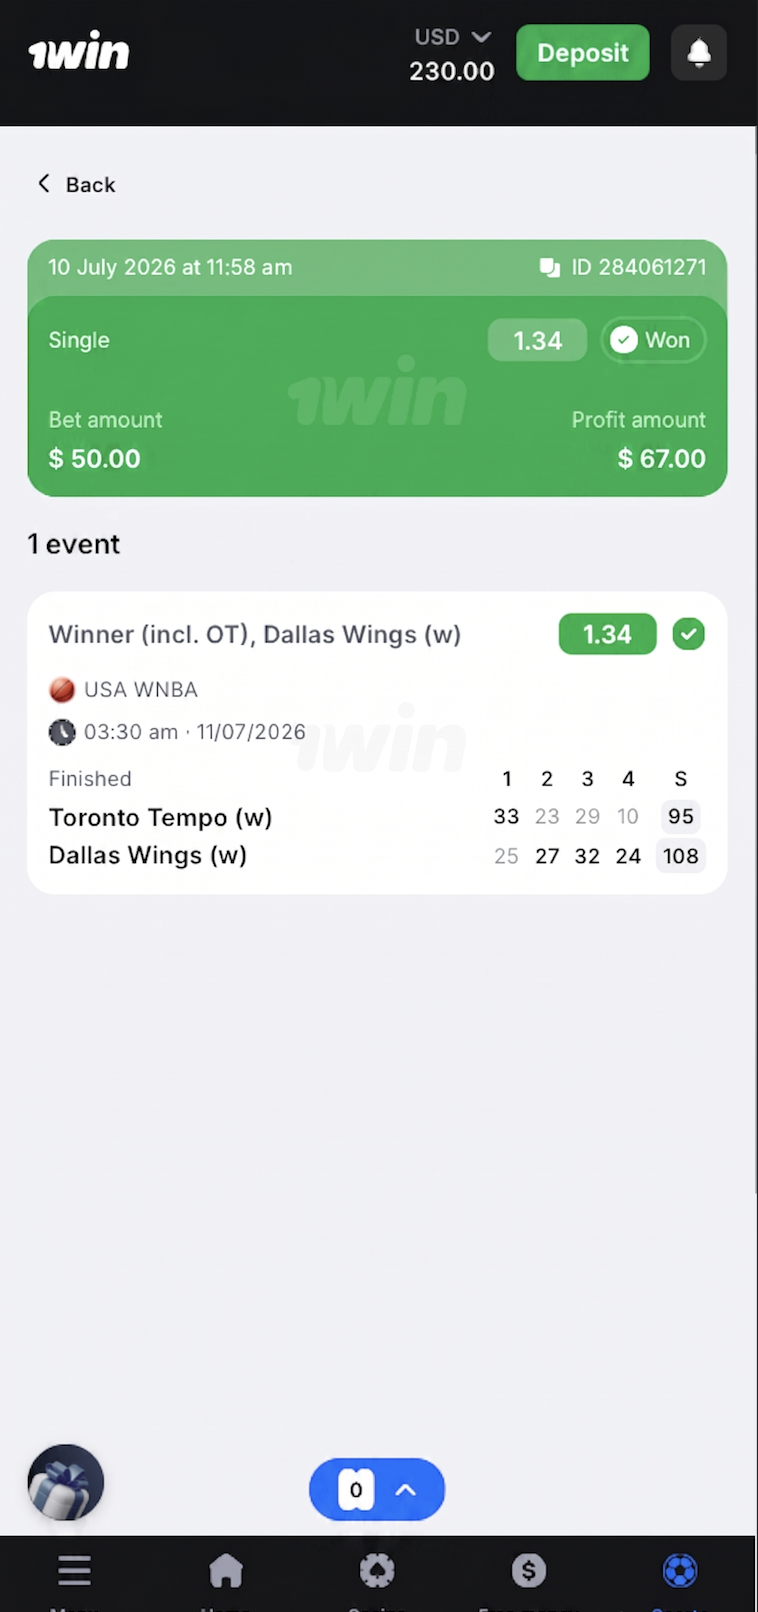
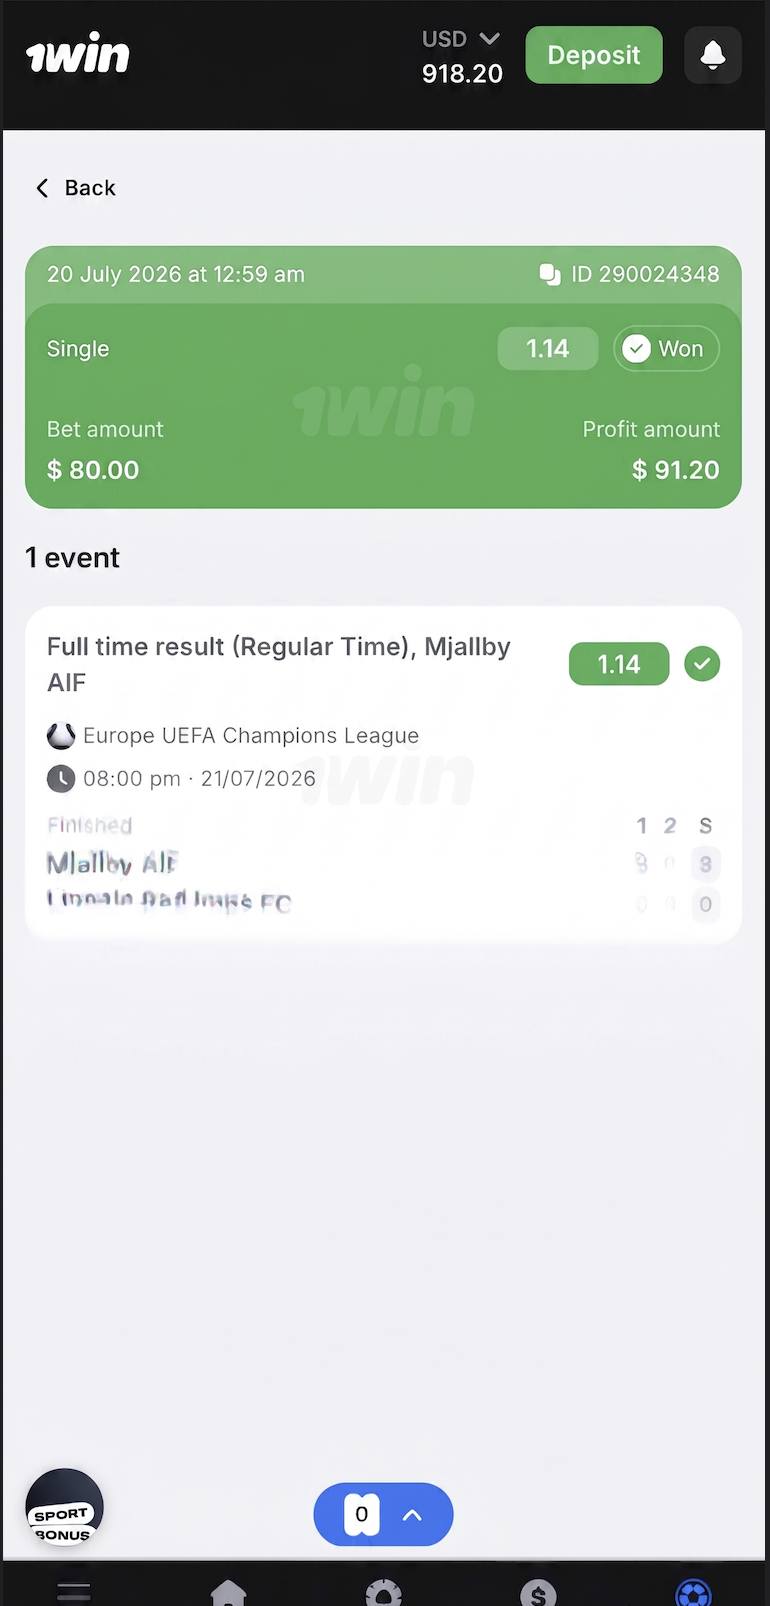
upagrade

diff --git a/fortunobet/FortunoBetBot.py b/fortunobet/FortunoBetBot.py
@@ -64,32 +64,29 @@ posts =[
 # {"date": "2026-06-21", "time": "18:00", "content": "😂 Weekend done — who won?\n\nDrop your biggest win below 👇\nNext week we go again. Chale who ready? 🔥", "images": []},
 # {"date": "2026-06-21", "time": "23:55", "content": "🎰 <b>500% Bonus — active tonight only! ❌</b>\n\n1WIN Casino. Fortune Tiger. Gates of Olympus. 💰\nGH₵50 → play with GH₵300 + 500 free spins. Chale.\n\nPromo code works now — not guaranteed tomorrow. ⚠\nThree payouts this week. GH₵450 + GH₵750 + GH₵1,200. No dulling. 💸\n\nPlace your bet before bonus expires. JOIN NOW. 🔥\n\nDeposit GH₵50 → play with GH₵300\n🔑 Code: <code>fortunobet</code>\n👉 <b>PLACE YOUR BET:</b> https://r1wexmo.life/betting?open=register&p=t02b", "images": ["bonus4.jpeg"]},
 
-    {"date":"2026-07-20","time":"14:50","content":"⚽ <b>UEFA Champions League Qualifier Pick! 🏆</b>\n\nMjallby AIF is in unstoppable home form tonight. Odds 1.14 is our absolute premium banker to secure easy growth. 💰\n\nA simple bet of UGX 10,000 / GH¢ 40 / ₦2,500 yields clean profit with zero risk. H2H data is completely clear. 🎯\n\nDon't let free money pass you by. Lock in your pick before kickoff!\n\n🔑 Promo Code: <code>fortunobet</code>\n👉 <b>GET HIGHEST ODDS:</b> https://r1wexmo.life/betting?open=register&p=t02b","images":["proggress.png"]},
-    {"date":"2026-07-20","time":"23:55","content":"✈ <b>Aviator Hit 85.42x Multiplier Tonight! Cash Out Success! 🎰</b>\n\nUnbelievable flight! A tiny UGX 2,000 / GH¢ 5 / ₦200 deposit turned into UGX 170,840 / GH¢ 427 / ₦17,080 in just 15 seconds. 💸\n\nUGX 150,000 withdrawn instantly to MTN Mobile Money flat! ID: 7732224. 💛\n\nStop watching the red plane climb from the sidelines. Click CASHOUT before it flies away, and withdraw straight to your MoMo or OPay wallet instantly!\n\n🔑 Promo Code: <code>fortunobet</code>\n👉 <b>FLY AND CASHOUT INSTANTLY:</b> https://r1wexmo.life/betting?open=register&p=t02b","images":["withdrow1.png"]},
 
-    {"date":"2026-07-21","time":"12:00","content":"🏀⚽ <b>WNBA & Brazil Serie A Double Ticket — Success! ✅</b>\n\nAtlanta Dream won easily at home, and EC Bahia dominated as predicted! Odds 1.82. 🏆\nUGX 10,000 → UGX 18,200 / GH¢ 50 → GH¢ 91 / ₦3,000 → ₦5,460 clean profit! 💸\n\nNo guessing, no room for emotions. Only pure data and high-value odds. 🎯\n\n🔑 Promo Code: <code>fortunobet</code>\n👉 <b>LOCK IN EVENING ODDS:</b> https://r1wexmo.life/betting?open=register&p=t02b","images":["win1.png"]},
-    {"date":"2026-07-21","time":"18:00","content":"🎰 <b>MASSIVE 500% BONUS + 10% MONTHLY LOSS CASHBACK! 🏆</b>\n\nMaximize your funds on FortunoBet! Get a huge 500% welcome package on your first deposits to play over 5,000 slots and sports. 💰\n\n🛡 <b>FortunoBet Zero-Risk Player Cashback:</b>\nWe protect our players! We give a 10% monthly cashback refund on ALL your net losses. 💸\n\n<b>How it works:</b>\n1⃣ Take a screenshot of your monthly losses on the platform.\n2⃣ Send the screenshot to our Telegram channel.\n3⃣ We will manually fill/credit your balance with real cash and post the credited screenshot proof here! 🤝\n\n🔑 Promo Code: <code>fortunobet</code>\n👉 <b>CLAIM BONUS & CASHBACK:</b> https://r1wexmo.life/betting?open=register&p=t02b","images":["fortunobet.jpeg"]},
-    {"date":"2026-07-21","time":"22:00","content":"💸 <b>₦25,000 Paid Out in Nigeria — Instant OPay/PalmPay! ✅</b>\n\nLagos is winning big tonight! C. Obi withdrew ₦25,000 straight to OPay. 🇳🇬\nTransaction completed in under 1 minute. Zero hidden fees. ID: 7732225. 💚\n\nWhile others are sleeping, smart players are cashing out. The statistics don't lie. 🙏\n\nStart with just ₦200 and feel the lightning payout speed yourself!\n\n🔑 Promo Code: <code>fortunobet</code>\n👉 <b>SOAR AND CASH OUT NOW:</b> https://r1wexmo.life/betting?open=register&p=t02b","images":["withdrow2.png"]},
+  {"date":"2026-07-28","time":"12:00","content":"⚡ <b>500% BONUS + 10% MONTHLY CASHBACK! 💰</b>\n\nDouble your betting power! Get an instant <b>500% welcome bonus</b> on your 1st deposit + <b>10% monthly loss protection</b>! 🛡\n\nMin deposit: UGX 2,000 / GH¢ 5 / ₦200 via MTN MoMo, Telecel & OPay.\n\n🔑 Code: <code>fortunobet</code>\n👉 <b>CLAIM YOUR BONUS NOW:</b> https://r1wexmo.life/betting?open=register&p=t02b","images":["fortunobet2.jpeg"]},
+  {"date":"2026-07-28","time":"16:30","content":"⚽ <b>CHAMPIONS LEAGUE PICK: Mjällby AIF Win (1.49 Odds) 🎯</b>\n\nLincoln Red Imps vs Mjällby AIF! Mjällby scored in 8 of last 10 away games. Lock in high-probability odds! 📊\n\n🔑 Code: <code>fortunobet</code>\n👉 <b>BET NOW:</b> https://one-vv0954.life/betting/match/sport/lincoln-red-imps-fc-vs-mjallby-aif-37797997","images":[]},
+  {"date":"2026-07-28","time":"23:55","content":"💸 <b>GH¢715.00 INSTANT CASHOUT PROOF! ✅</b>\n\nBryan just received GH¢715.00 (~$65 USD) directly to MTN Mobile Money in under 60 seconds! ID: 7732301. 💚\n\nNo verification delays. Deposit UGX 2,000 / GH¢ 5 / ₦200, win, and withdraw instantly! ⚡\n\n🔑 Code: <code>fortunobet</code>\n👉 <b>REGISTER & CASH OUT NOW:</b> https://r1wexmo.life/betting?open=register&p=t02b","images":["with1.png"]},
 
-    {"date":"2026-07-22","time":"12:00","content":"🎾 <b>WTA Bastad Clay Tennis Winner! Simona Waltert. ✅</b>\n\nOur analytical slips delivered spectacular profits on Sweden's clay court. Simona Waltert dominated Kaitlin Quevedo easily! 🏆\n\nOdds 1.42. ₦5,000 / UGX 10,000 / GH¢ 40 stake turned into ₦7,100 / UGX 14,200 / GH¢ 56.80 clean profit. 💸\n\nStop gambling blindly. Follow the numbers and build your bankroll systematically. 🎯\n\n🔑 Promo Code: <code>fortunobet</code>\n👉 <b>PLACE YOUR WINNING BET:</b> https://r1wexmo.life/betting?open=register&p=t02b","images":["win2.png"]},
-    {"date":"2026-07-22","time":"18:36","content":"💡 <b>How to Register & Play in 30 Seconds — Easy Guide:</b>\n\n1⃣ Click the link & register with Code: <code>fortunobet</code>\n2⃣ Deposit as little as UGX 2,000 / GH¢ 5 / ₦200 (price of 1 local chapati/street snack!) using MTN, Airtel, Telecel, OPay, or PalmPay\n3⃣ Get your 500% welcome bonus credited automatically!\n\nStop scrolling and start earning today. It's too simple! 🎯\n\n🔑 Promo Code: <code>fortunobet</code>\n👉 <b>REGISTER YOUR ACCOUNT NOW:</b> https://r1wexmo.life/betting?open=register&p=t02b","images":["fortunobet1.jpeg"]},
-    {"date":"2026-07-22","time":"22:00","content":"🎈 <b>1Win Balloon Reached 20.35x Multiplier Tonight! 🏆</b>\n\nThe easiest cash game on the internet right now. Press, hold to inflate the balloon, watch the multiplier rise, and release to cashout instantly! 💰\n\nDon't let it pop before you collect! Turn a simple UGX 2,000 / GH¢ 5 / ₦200 into UGX 40,700 / GH¢ 100 / ₦4,000 in seconds and withdraw straight to MoMo/OPay! 💸\n\nYour 500% Welcome Bonus is waiting. Claim it tonight and play with zero stress! ⚡\n\n🔑 Promo Code: <code>fortunobet</code>\n👉 <b>PLAY BALLOON AND CASH OUT:</b> https://r1wexmo.life/betting?open=register&p=t02b","images":["withdrow1.png"]},
+  {"date":"2026-07-29","time":"12:00","content":"✅ <b>$85.00 PROFIT — UEFA CHAMPIONS LEAGUE WIN! ⚽</b>\n\nSabah Baku FK won 1-0! Single 1.70 Odds hit clean. $50 stake returned $85.00 cash! 🏆\n\nTotal Account Balance: <b>$907.00</b> 💸\n\nStop guessing! Register in 30 seconds and follow backed analytics.\n\n🔑 Code: <code>fortunobet</code>\n👉 <b>LOCK IN TODAY'S WINNING ODDS:</b> https://r1wexmo.life/betting?open=register&p=t02b","images":["win3.png"]},
+  {"date":"2026-07-29","time":"16:30","content":"❓ <b>QUICK QUESTION:</b>\n\nWhat is your #1 rule in soccer betting? ⚽\n\nA) Home team bias\nB) No emotional chasing\nC) Low-risk 1.3+ odds\n\nSmartest bettors strictly use B & C on FortunoBet to grow daily! 📈\n\n🔑 Code: <code>fortunobet</code>\n👉 <b>JOIN THE WINNERS:</b> https://r1wexmo.life/betting?open=register&p=t02b","images":[]},
+  {"date":"2026-07-29","time":"23:55","content":"💚 <b>GH¢440.00 RECEIVED VIA MTN MOMO! ⚡</b>\n\nEarly morning payout processed in 45 seconds! Bryan withdrew GH¢440.00 (~$40 USD). ID: 7732302. 💸\n\nZero withdrawal fees. Start with just UGX 2,000 / GH¢ 5 / ₦200 on MTN, Airtel, OPay, or PalmPay tonight!\n\n🔑 Code: <code>fortunobet</code>\n👉 <b>SOAR AND CASH OUT NOW:</b> https://r1wexmo.life/betting?open=register&p=t02b","images":["with2.png"]},
 
-    {"date":"2026-07-23","time":"13:44","content":"🏀 <b>WNBA Main Pick: Dallas Wings vs Toronto Tempo! ✅</b>\n\nDallas Wings dominated the court in style! High-value analytical slip wins again. 🏆\n\nOdds 1.34. UGX 10,000 / GH¢ 40 / ₦2,500 returned UGX 13,400 / GH¢ 53.60 / ₦3,350 pure profit. 💸\n\nOur research makes winning simple. Don't waste money guessing. Follow the data! 🎯\n\n🔑 Promo Code: <code>fortunobet</code>\n👉 <b>GET BEST VALUE ODDS TODAY:</b> https://r1wexmo.life/betting?open=register&p=t02b","images":["win2.png"]},
-    {"date":"2026-07-23","time":"18:00","content":"💡 <b>How to Start and Win in 30 Seconds — Step-by-Step:</b>\n\n1⃣ Click the link & register with Code: <code>fortunobet</code>\n2⃣ Deposit as little as UGX 2,000 / GH¢ 5 / ₦200 (price of 1 local chapati/street snack!)\n3⃣ Play Aviator, Balloon, or back a top soccer match and withdraw instantly to MoMo/OPay/PalmPay! ⚡\n\n🎁 <b>Our 500% welcome package matches your first deposits automatically!</b>\n\nWhy watch from the sidelines? Start your winning journey today. It's too simple. 🎯\n\n🔑 Promo Code: <code>fortunobet</code>\n👉 <b>REGISTER YOUR ACCOUNT NOW:</b> https://r1wexmo.life/betting?open=register&p=t02b","images":["fortunobet.jpeg"]},
-    {"date":"2026-07-23","time":"22:00","content":"💸 <b>$75.00 USD Mobile Money Payout — Instant! ✅</b>\n\nFriday night cashout has arrived! Transaction MM-7732226 processed in 45 seconds flat. 💚\n\nYour Mobile Money or OPay/PalmPay wallet is ready to grow. Zero withdrawal fees, zero bank queues.\n\nBrian backed our Simona Waltert tennis prediction and woke up to a sweet $75 balance. It's too easy. 🎯\n\nStart your weekend with just UGX 2,000 / GH¢ 5 / ₦200 today! ⚡\n\n🔑 Promo Code: <code>fortunobet</code>\n👉 <b>COLLECT FRIDAY CASHOUTS:</b> https://r1wexmo.life/betting?open=register&p=t02b","images":["withdrow3.png"]},
+  {"date":"2026-07-30","time":"12:00","content":"🛡 <b>10% MONTHLY LOSS PROTECTION IS ACTIVE! 💰</b>\n\nNever lose alone. Take a screenshot of your monthly losses, send it to our channel, and we reload your balance with real cash! 💸\n\nPlus get a <b>500% bonus</b> on your 1st deposit! Min deposit: UGX 2,000 / GH¢ 5 / ₦200. ⚡\n\n🔑 Code: <code>fortunobet</code>\n👉 <b>CLAIM CASHBACK & BONUS:</b> https://r1wexmo.life/betting?open=register&p=t02b","images":["fortunobet1.jpeg"]},
+  {"date":"2026-07-30","time":"16:30","content":"","images":[]},
+  {"date":"2026-07-30","time":"23:55","content":"✈ <b>AVIATOR HIT 85x MULTIPLIER TONIGHT! 🚀</b>\n\nTurn a tiny UGX 2,000 / GH¢ 5 / ₦200 deposit into UGX 170,000 / GH¢ 425 / ₦17,000 in seconds! 💸\n\nCash out before the plane flies away and withdraw straight to MoMo or OPay! ⚡\n\n🔑 Code: <code>fortunobet</code>\n👉 <b>FLY AND CASH OUT NOW:</b> https://r1wexmo.life/betting?open=register&p=t02b","images":["fortunobet.jpeg"]},
 
-    # {"date":"2026-07-24","time":"11:00","content":"🛡 <b>Weekly Check-in: 10% Monthly Loss Cashback Active! 💰</b>\n\nAt FortunoBet, you never lose alone. We back you up with a 10% CASH refund on all monthly net losses! 🏆\n\n<b>Our Transparent Process:</b>\n📸 Take a screenshot of your monthly loss page.\n📨 Send it straight to our Telegram channel.\n💳 Our administration will manually fill your balance with real money and post the screenshot proof of the reload here! ⚡\n\nPlay your favorite slots, Aviator, or sports with complete peace of mind. Risk is cut down by 10% flat! 🔥\n\n🔑 Promo Code: <code>fortunobet</code>\n👉 <b>REGISTER & SECURE CASHBACK:</b> https://r1wexmo.life/betting?open=register&p=t02b","images":["fortunobet2.jpeg"]},
-    # {"date":"2026-07-24","time":"16:30","content":"🔥 <b>[SATURDAY EXPERT SLIP] Perfect Predictor Active! 🎯</b>\n\nWeekend sports are in full swing! Our analytics team has locked in a premium basketball prediction for today. 📊\n\n<b>• Fixture:</b> WNBA Dallas Wings Match\n<b>• Analysis:</b> Elite home record vs struggle-prone away defense\n<b>• Prediction:</b> Dallas Wings Winner (incl. OT)\n<b>• Best Odds:</b> 1.34 on the platform\n\nJoin the winners and build your bankroll. Don't guess, follow the metrics. 🎯\n\n🔑 Promo Code: <code>fortunobet</code>\n👉 <b>PLACE YOUR SATURDAY BET:</b> https://r1wexmo.life/betting?open=register&p=t02b","images":["win2.png"]},
-    {"date":"2026-07-24","time":"23:55","content":"🐹🚀 <b>Save the Hamster Cashout! Multipliers Flying High Tonight! 🏆</b>\n\nOur favorite flying hamster is soaring to crazy multiplier heights tonight! Tap to save him before the crash and claim your multiplier. 💰\n\nUGX 198,000 (~$53 USD) paid instantly straight to Mobile Money / OPay tonight! Transaction ID: MM-7732213. 💚\n\nNo stressful bank delays, no tedious verification. Turn a minor UGX 2,000 / GH¢ 5 / ₦200 deposit into big weekend cash!\n\n🔑 Promo Code: <code>fortunobet</code>\n👉 <b>PLAY SAVE THE HAMSTER NOW:</b> https://r1wexmo.life/betting?open=register&p=t02b","images":["withdrow3.png"]},
+  {"date":"2026-07-31","time":"12:00","content":"✅ <b>$91.20 WINNER — MJALLBY AIF (1.14 ODDS)! ⚽</b>\n\nChampions League qualifier locked in! $80 stake returned $91.20 profit. Total Balance: <b>$918.20</b>! 🏆\n\nStop scrolling on the sidelines. Build your weekend bankroll systematically! 💸\n\n🔑 Code: <code>fortunobet</code>\n👉 <b>LOCK IN FRIDAY ODDS:</b> https://r1wexmo.life/betting?open=register&p=t02b","images":["win2.png"]},
+  {"date":"2026-07-31","time":"16:30","content":"💡 <b>SMART BETTING TIP:</b>\n\nNever risk rent money! Start small with UGX 2,000 / GH¢ 5 / ₦200 on FortunoBet. Instant 500% bonus doubles your power! ⚡\n\n🔑 Code: <code>fortunobet</code>\n👉 <b>DEPOSIT & START WINNING:</b> https://r1wexmo.life/betting?open=register&p=t02b","images":[]},
+  {"date":"2026-07-31","time":"23:55","content":"💸 <b>GH¢770.00 FRIDAY NIGHT CASHOUT PROOF! ✅</b>\n\nFriday night cash received! Bryan just got GH¢770.00 (~$70 USD) straight to MTN Mobile Money. ID: 7732303. Balance: GH¢1,004.50! 💚\n\nStart your weekend with instant payouts on MoMo, OPay & PalmPay! ⚡\n\n🔑 Code: <code>fortunobet</code>\n👉 <b>COLLECT FRIDAY CASHOUTS:</b> https://r1wexmo.life/betting?open=register&p=t02b","images":["with3.png"]},
 
-    {"date":"2026-07-25","time":"11:00","content":"💳 <b>10% MONTHLY LOSS CASHBACK PAID OUT! REAL PROOF! ✅</b>\n\nTransparent player protection in action! A player sent a screenshot of their monthly losses of UGX 150,000 / GH¢ 500 / ₦30,000. 📸\n\nWe immediately filled/reloaded their balance with real money cash: UGX 15,000 / GH¢ 50 / ₦3,000 straight to their account! Here is the credited screenshot proof! 💸\n\nStop betting with platforms that take your money and disappear. Join FortunoBet where we credit 10% of your losses back monthly! 🤝\n\n🔑 Promo Code: <code>fortunobet</code>\n👉 <b>CLAIM YOUR 10% CASHBACK:</b> https://r1wexmo.life/betting?open=register&p=t02b","images":["fortunobet2.jpeg"]},
-    {"date":"2026-07-25","time":"16:30","content":"⚽ <b>[SUNDAY ELITE FIXTURE] Spain U19 vs Germany U19! ✅</b>\n\nSpain U19 proved their dominance on the European stage with a clean 2-0 victory! Analytical slip wins again! 🏆\n\nOdds 1.33. UGX 20,000 / GH¢ 80 / ₦5,000 stake returned a beautiful UGX 26,600 / GH¢ 106.40 / ₦6,650 profit! 💸\n\nStop scrolling. Focus on ONE solid match with backed analytics, place your bet, and win. 🔥\n\n🔑 Promo Code: <code>fortunobet</code>\n👉 <b>PLACE YOUR SUNDAY BETS:</b> https://r1wexmo.life/betting?open=register&p=t02b","images":["win1.png"]},
-    {"date":"2026-07-25","time":"23:55","content":"✈ <b>Night Multipliers are Hitting Extreme Peaks on Aviator! 🎰</b>\n\nWe saw multipliers soar past 85x tonight. Just one well-timed flight can multiply your wallet balance instantly! 💰\n\nUGX 112,000 / GH¢ 400 / ₦20,000 deposited instantly straight to MTN/OPay wallet! ID: MM-7732211. 💛\n\nDeposit via MTN, Airtel, Telecel, OPay, or PalmPay, claim your massive 500% Welcome Bonus, and experience the most rewarding crash game online today. 🔥\n\n🔑 Promo Code: <code>fortunobet</code>\n👉 <b>FLY AND WIN NOW:</b> https://r1wexmo.life/betting?open=register&p=t02b","images":["withdrow1.png"]},
+  {"date":"2026-08-01","time":"12:00","content":"🏆 <b>WEEKLY WINS RECAP: 100% SUCCESS RATE! 📊</b>\n\nEvery single banker bet hit this week! Total account balance soared to <b>$918.20</b>! 💸\n\n✅ Wolfsburg vs Lyon (0-2) — <b>WON (1.50)</b>\n✅ Sabah Baku FK vs KuPS — <b>WON (1.70)</b>\n✅ Mjällby AIF vs Lincoln — <b>WON (1.14)</b>\n✅ Simona Waltert Clay — <b>WON (1.42)</b>\n\nStop guessing on the sidelines. Back analytical picks on FortunoBet! 🎯\n\n🔑 Code: <code>fortunobet</code>\n👉 <b>JOIN THE WINNERS:</b> https://r1wexmo.life/betting?open=register&p=t02b","images":["win3.png","win2.png"]},
+  {"date":"2026-08-01","time":"16:30","content":"","images":[]},
+  {"date":"2026-08-01","time":"23:55","content":"🎈 <b>20x MULTIPLIERS FLYING ON 1WIN BALLOON! 🚀</b>\n\nTurn UGX 2,000 / GH¢ 5 / ₦200 into UGX 40,000 / GH¢ 100 / ₦4,000 in under 20 seconds! 💸\n\nHold to inflate, release to cash out, and withdraw instantly to MoMo/OPay! ⚡\n\n🔑 Code: <code>fortunobet</code>\n👉 <b>PLAY BALLOON AND WIN:</b> https://r1wexmo.life/betting?open=register&p=t02b","images":["fortunobet1.jpeg"]},
 
-  {"date":"2026-07-26","time":"11:00","content":"⚡ <b>500% BONUS + 10% CASHBACK! 💰</b>\n\nGet an instant <b>500% cash boost</b> on your 1st deposit + <b>10% monthly loss refund</b> straight to your balance! 🏆\n\nMin deposit: UGX 2,000 / GH¢ 5 / ₦200 (price of 1 chapati/snack) via MoMo/OPay.\n\n🔑 Code: <code>fortunobet</code>\n👉 <b>CLAIM 500% BONUS:</b> https://r1wexmo.life/betting?open=register&p=t02b","images":["fortunobet1.jpeg"]},
-  {"date":"2026-07-26","time":"16:30","content":"🎯 <b>MONDAY BANKER: Simona Waltert to Win (1.42 Odds) 🎾</b>\n\nPure analytics. Backed numbers. Win today with zero guessing! 📊\n\n• Match: Simona Waltert vs K. Quevedo\n• Pick: S. Waltert Win (1.42 Odds)\n\n🔑 Code: <code>fortunobet</code>\n👉 <b>BET NOW & WIN:</b> https://r1wexmo.life/betting?open=register&p=t02b","images":["win2.png"]},
-  {"date":"2026-07-26","time":"23:55","content":"🎈 <b>20x MULTIPLIERS ON 1WIN BALLOON! 🚀</b>\n\nTurn UGX 2,000 / GH¢ 5 / ₦200 into UGX 40,000 / GH¢ 100 / ₦4,000 in seconds! 💸\n\nInstant cashouts to MTN, Airtel & OPay! ID: MM-7732212. ⚡\n\n🔑 Code: <code>fortunobet</code>\n👉 <b>PLAY & CASH OUT NOW:</b> https://r1wexmo.life/betting?open=register&p=t02b","images":["withdrow2.png"]}
+  {"date":"2026-08-02","time":"12:00","content":"💸 <b>WEEKLY CASHOUT RECAP: OVER $300 PAID OUT! 💚</b>\n\nReal proof! All player withdrawals processed in under 60 seconds straight to MTN Mobile Money & OPay! ⚡\n\n✅ GH¢715.00 (~$65 USD) — <b>PAID</b> (ID: 7732301)\n✅ GH¢440.00 (~$40 USD) — <b>PAID</b> (ID: 7732302)\n✅ GH¢770.00 (~$70 USD) — <b>PAID</b> (ID: 7732303)\n\nZero withdrawal fees. Start your new week with cash in hand! 🎯\n\n🔑 Code: <code>fortunobet</code>\n👉 <b>REGISTER & CASH OUT NOW:</b> https://r1wexmo.life/betting?open=register&p=t02b","images":["with1.png","with2.png","with3.png"]},
+  {"date":"2026-08-02","time":"23:55","content":"💸 <b>SUNDAY NIGHT MOMO CASHOUT PROOF! ✅</b>\n\nGH¢770.00 (~$70 USD) paid out instantly to Mobile Money / OPay! Transaction ID: 7732303. 💚\n\nZero withdrawal fees, zero queues. Start your new week as a winner! ⚡\n\n🔑 Code: <code>fortunobet</code>\n👉 <b>REGISTER & CASH OUT NOW:</b> https://r1wexmo.life/betting?open=register&p=t02b","images":["with3.png"]}
 ]
 
 
